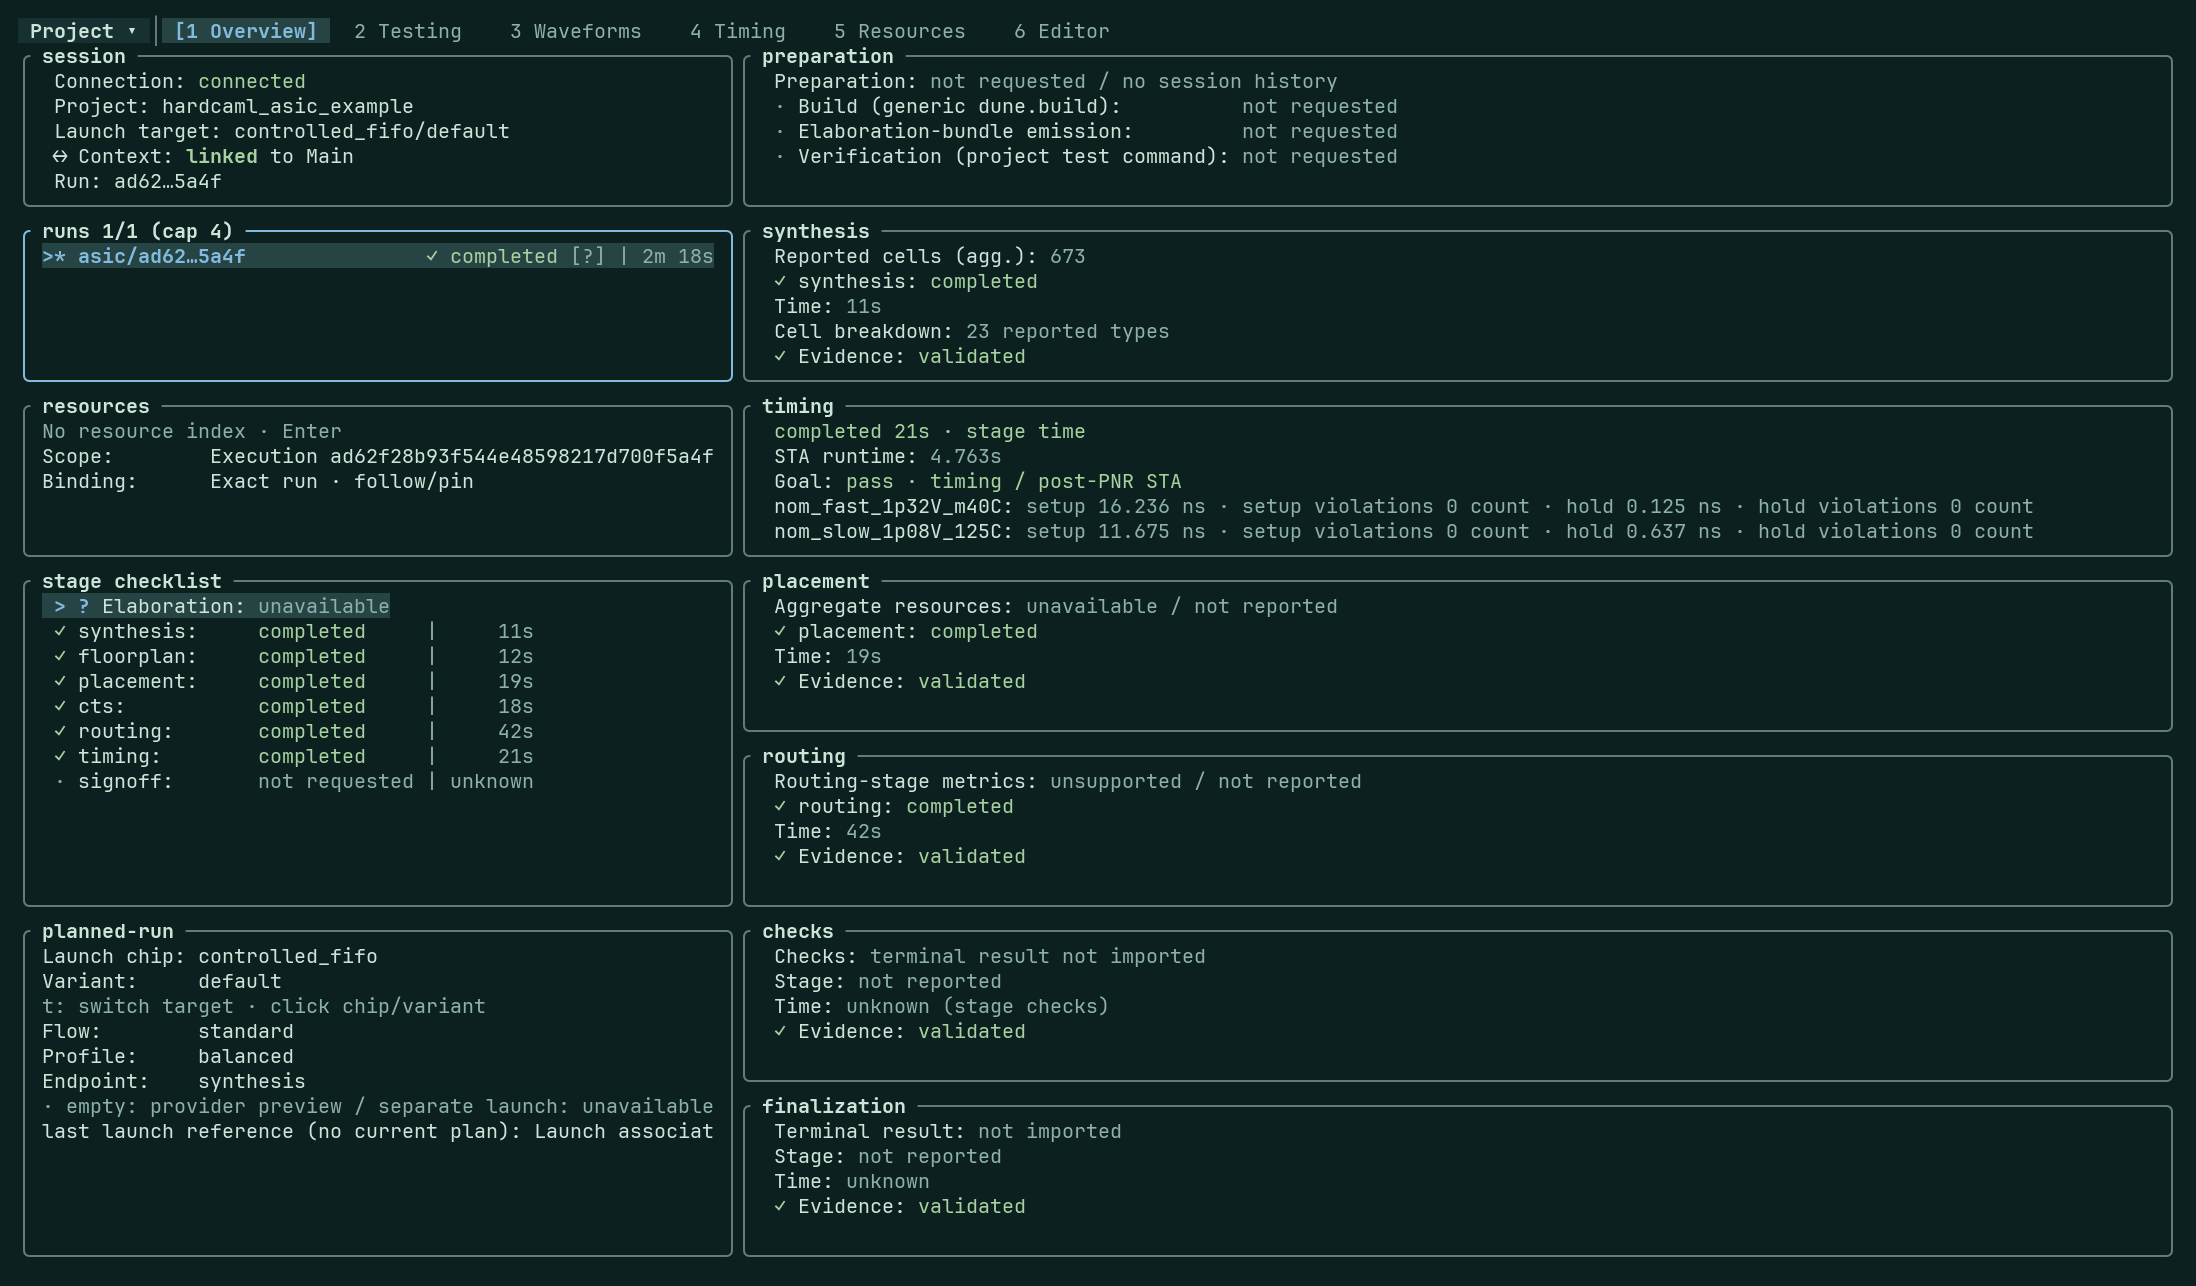
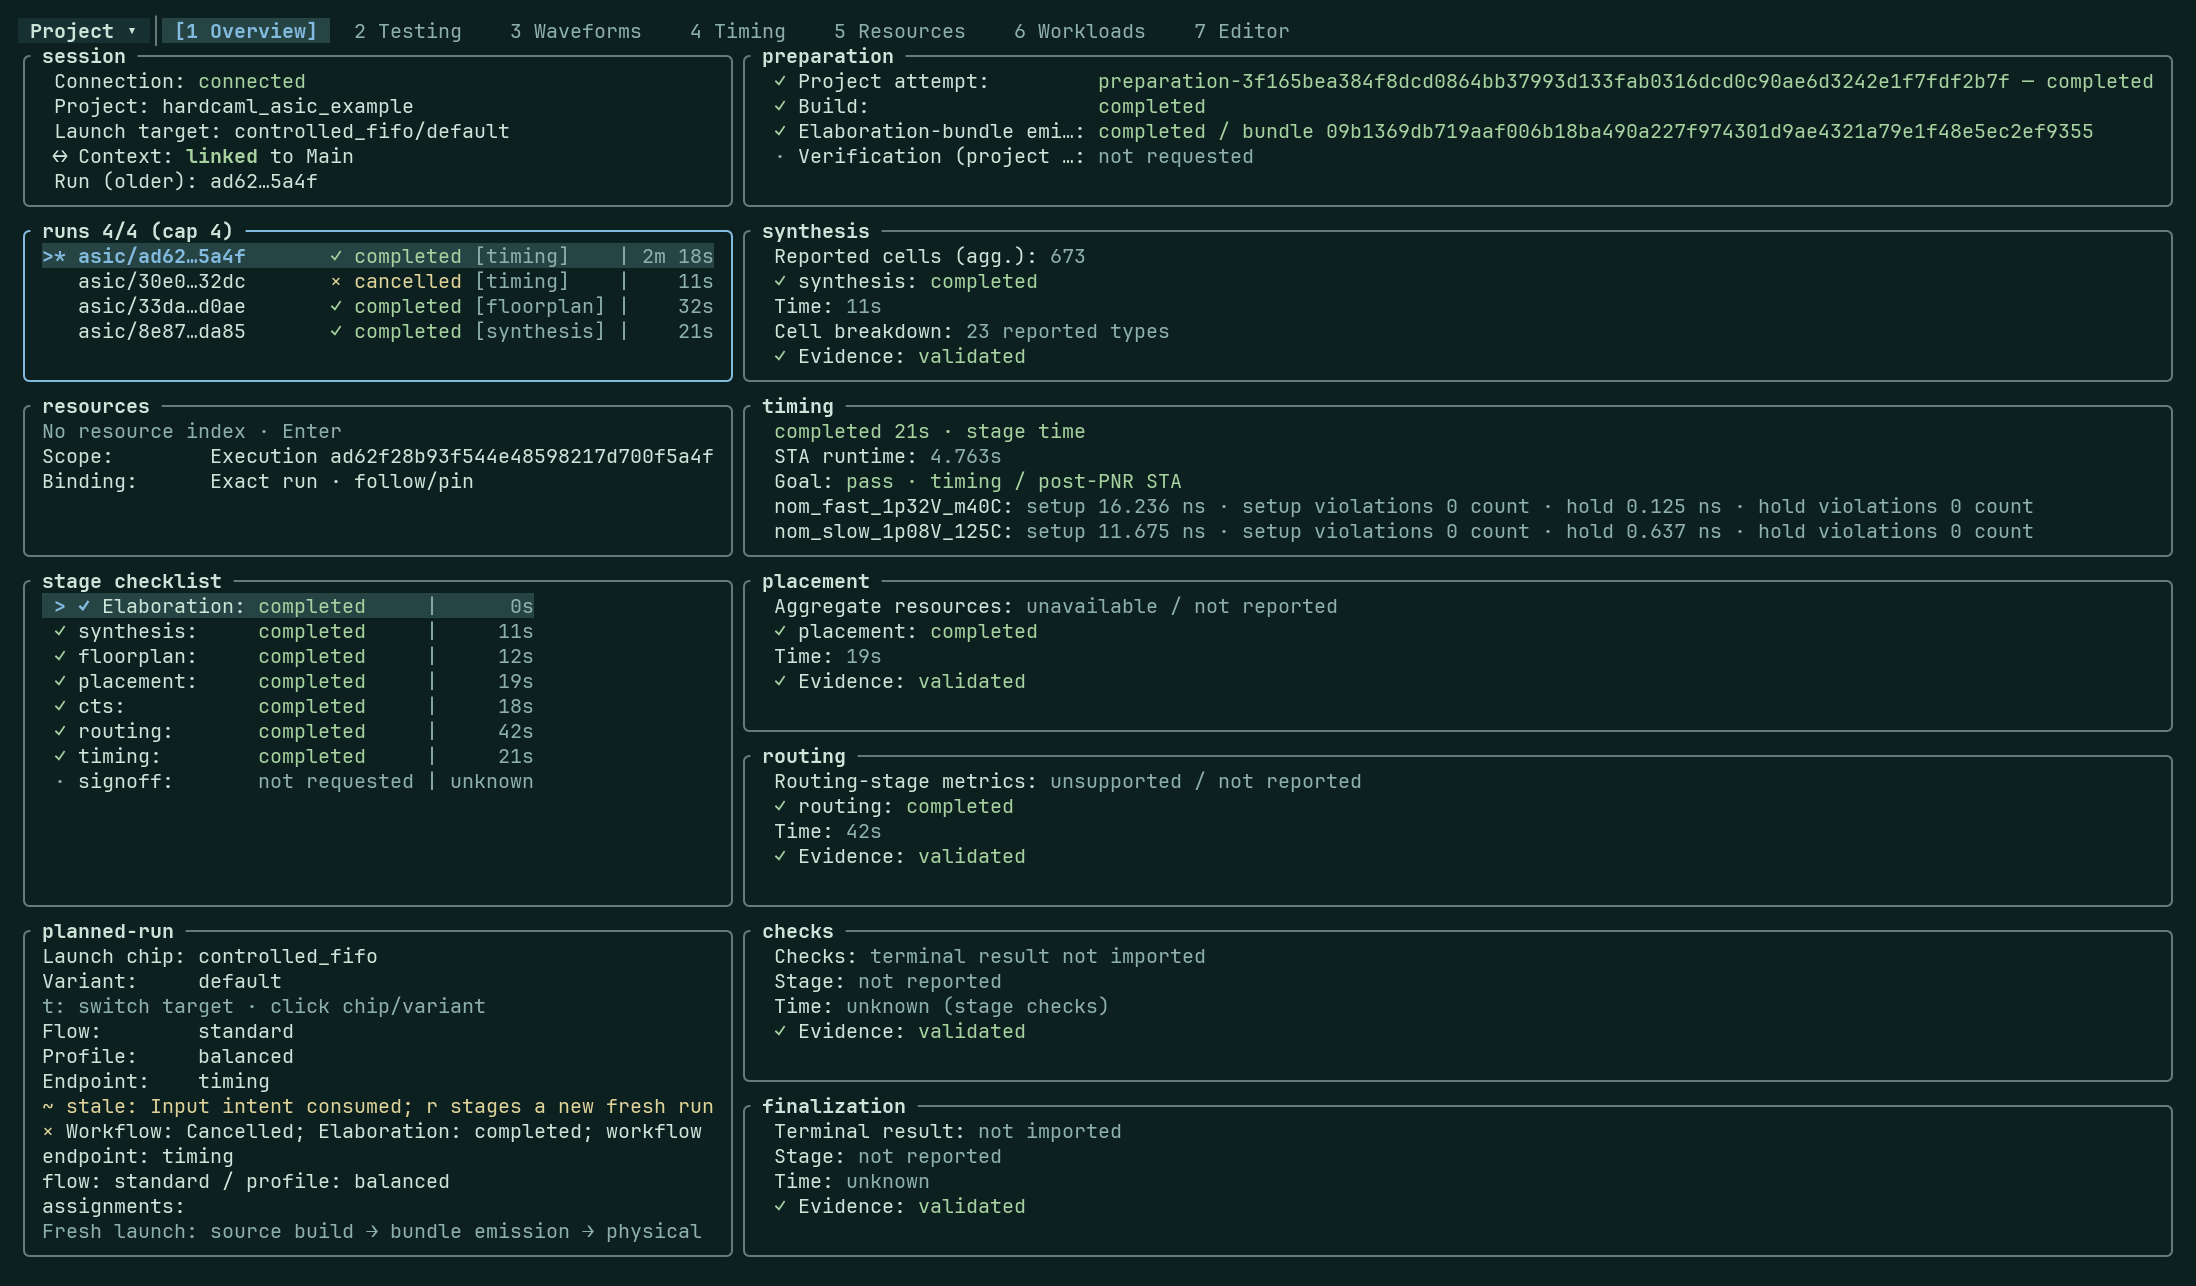
Docs: more pretty

diff --git a/README.md b/README.md
@@ -11,9 +11,9 @@ leaving the terminal.
 [Local documentation](docs/README.md) ·
 [Online documentation](https://bopurtell.github.io/clockmaker-docs/silver/)
 
-![Silver Overview showing completed ASIC stages, synthesis cell counts, and post-routing timing results for the Controlled FIFO.](docs/images/silver-asic-overview.png)
+![Silver Overview showing completed synthesis, floorplan and timing runs, a cancelled timing run, and validated post-routing timing results for the Controlled FIFO.](docs/images/silver-asic-overview.png)
 
-*Inspecting a completed synthesis-through-timing run for the Controlled FIFO in `hardcaml_asic_example`.*
+*Inspecting a completed timing run alongside shorter and cancelled runs for the Controlled FIFO in `hardcaml_asic_example`.*
 
 ## Install and open Silver
 
